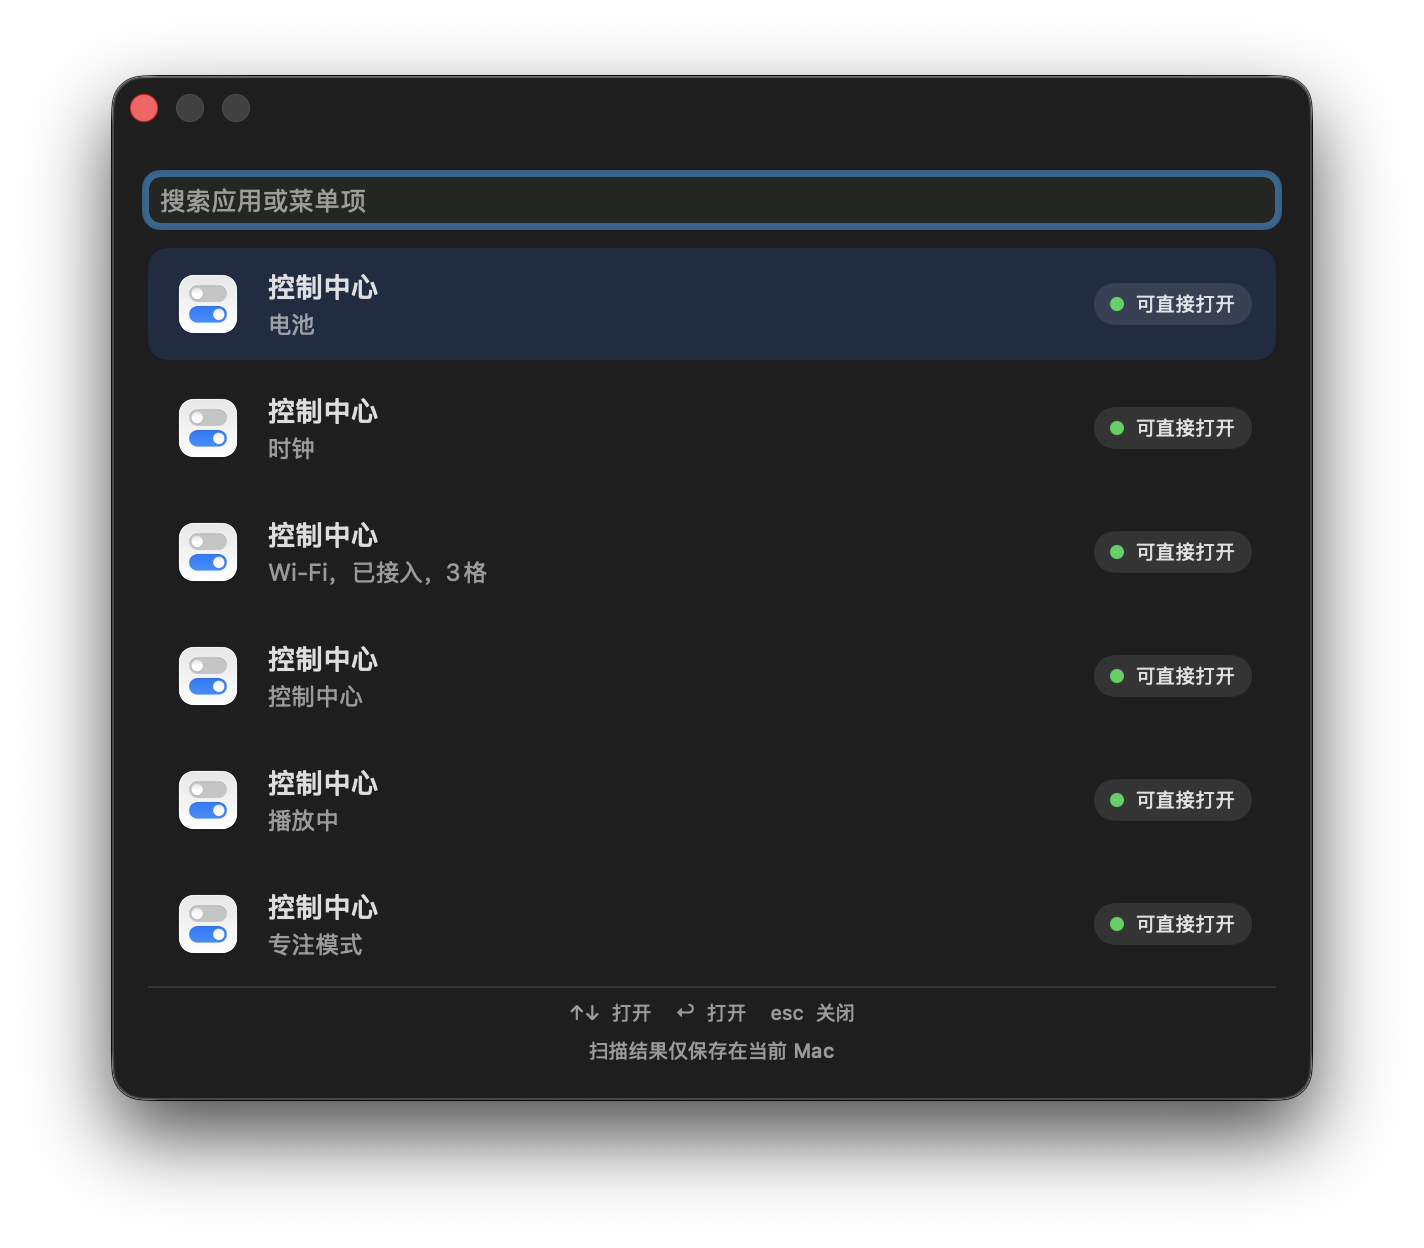
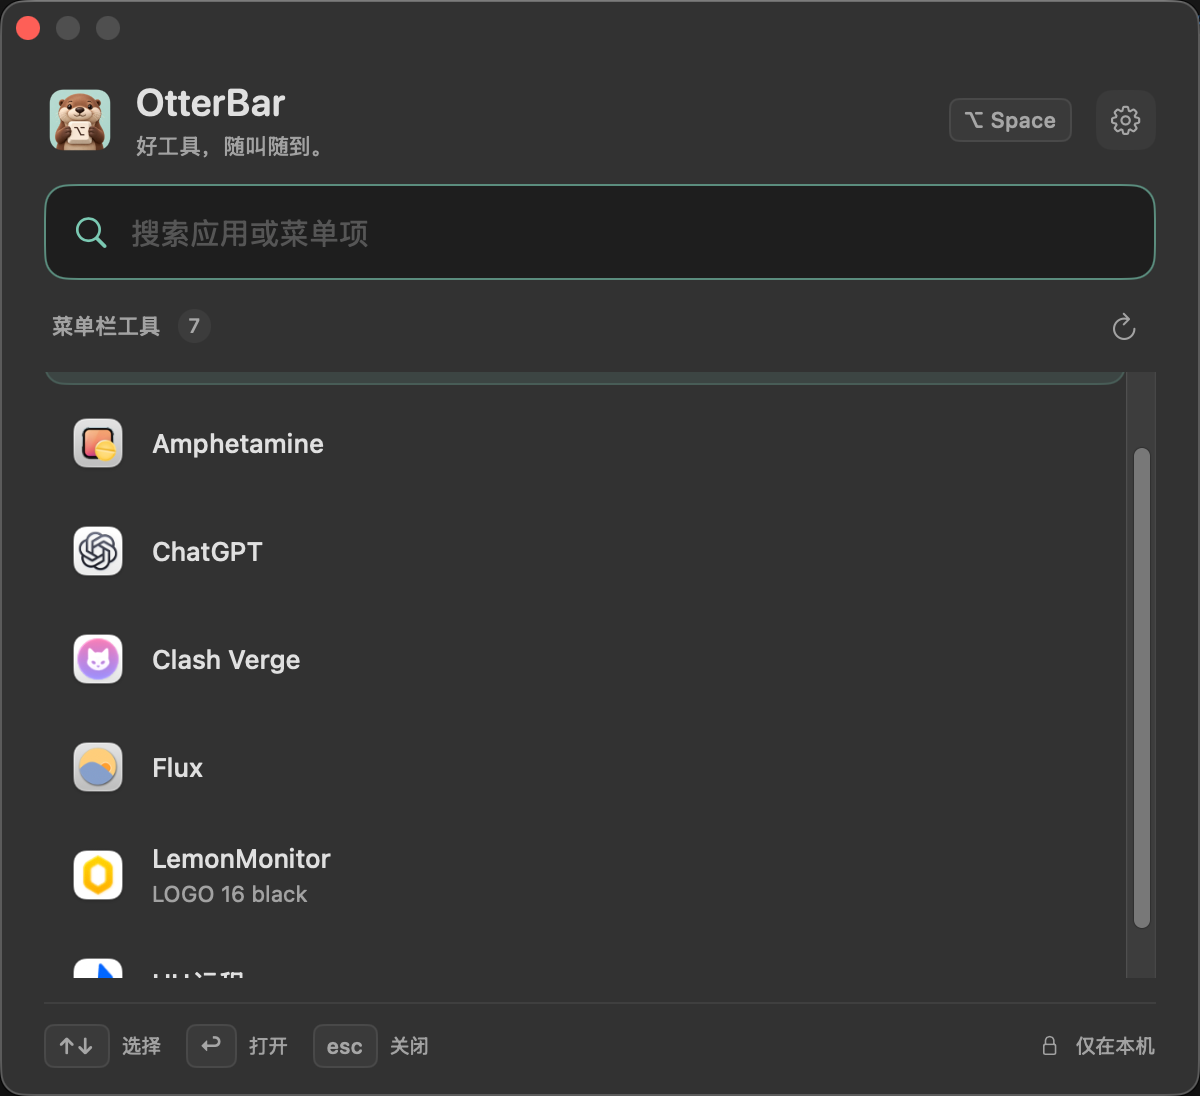
docs: align OtterBar release screenshot and record validation

diff --git a/docs/done/otterbar-public-download.md b/docs/done/otterbar-public-download.md
@@ -1,0 +1,27 @@
+# OtterBar 公开测试版下载
+
+2026-10-10。用户授权将公证安装包发布到 GitHub Releases，并放到官网。
+
+## 结果与范围
+
+- 发行仓库：https://github.com/mrliang-github/OtterBar，仅提供安装包、说明与反馈，不发布本机应用源码历史。
+- 发行版本：0.1.0（build 1），Apple Silicon，最低系统构建目标 macOS 13.0；本机启动验证为 macOS 26.6.2。
+- 安装包：OtterBar-0.1.0-build-1.dmg，2,357,386 bytes；GitHub 公共发行资产已完成上传并发布。
+- SHA-256：235f1e85607c3484e05165ba31ef11d8b0e84af193f2ee8f5f86b55179ca7abf。
+- Apple 公证返回 Accepted；DMG 及内嵌 App 均通过票据、签名与 Gatekeeper 验证。
+
+页面从 src/data/otterbar-release.json 生成版本、下载地址、体积、校验值与软件结构化数据，避免多处手动维护。原 public/otterbar/index.html 迁至 Astro 路由；产品资源继续使用原路径。页面增加直接下载、安装说明、更新记录与问题反馈，工具列表状态改为可下载，首屏截图更新为当前工具面板。
+
+## 验证与发布
+
+功能提交 98866bd 的 GitHub Actions Site checks 与 Cloudflare Pages 均通过；远端实际执行 npm ci、npm test 与 npm run build:pages。预览为 https://3c89aa7b.liangxiaoai.pages.dev/otterbar/。
+
+预览验收覆盖 1440px 桌面与 390px 手机宽度，无横向溢出、失效锚点或图片；FAQ 和校验栏可展开，版本、校验值与下载链接一致。正式发布沿现有 main → Cloudflare Pages Git 集成进行，最终生产提交和正式域名下载回读证据保存在应用仓库的发行记录中。
+
+本机 web 工作流由既有预览任务 b8780bb9-94b9-4525-bad8-3dd3fb459694 持锁，本次本机构建返回 75，未启动、未产生本轮构建输出。保留原预览服务，未换状态根或端口，使用远端 CI 和 Pages 构建验收。
+
+## 使用边界
+
+当前安装包不支持 Intel Mac，未完成所有 macOS 版本的实机验证。首次使用需要授予辅助功能权限，本地开发签名的授权可能需要重新授予。应用需要运行并通过系统辅助功能接口暴露菜单栏入口；“应用已打开”不保证能被检测到。
+
+下一版本更新时，先完成公证归档和公开发行资产，再更新发行元数据，沿相同检查和 Git 发布流程上线。
